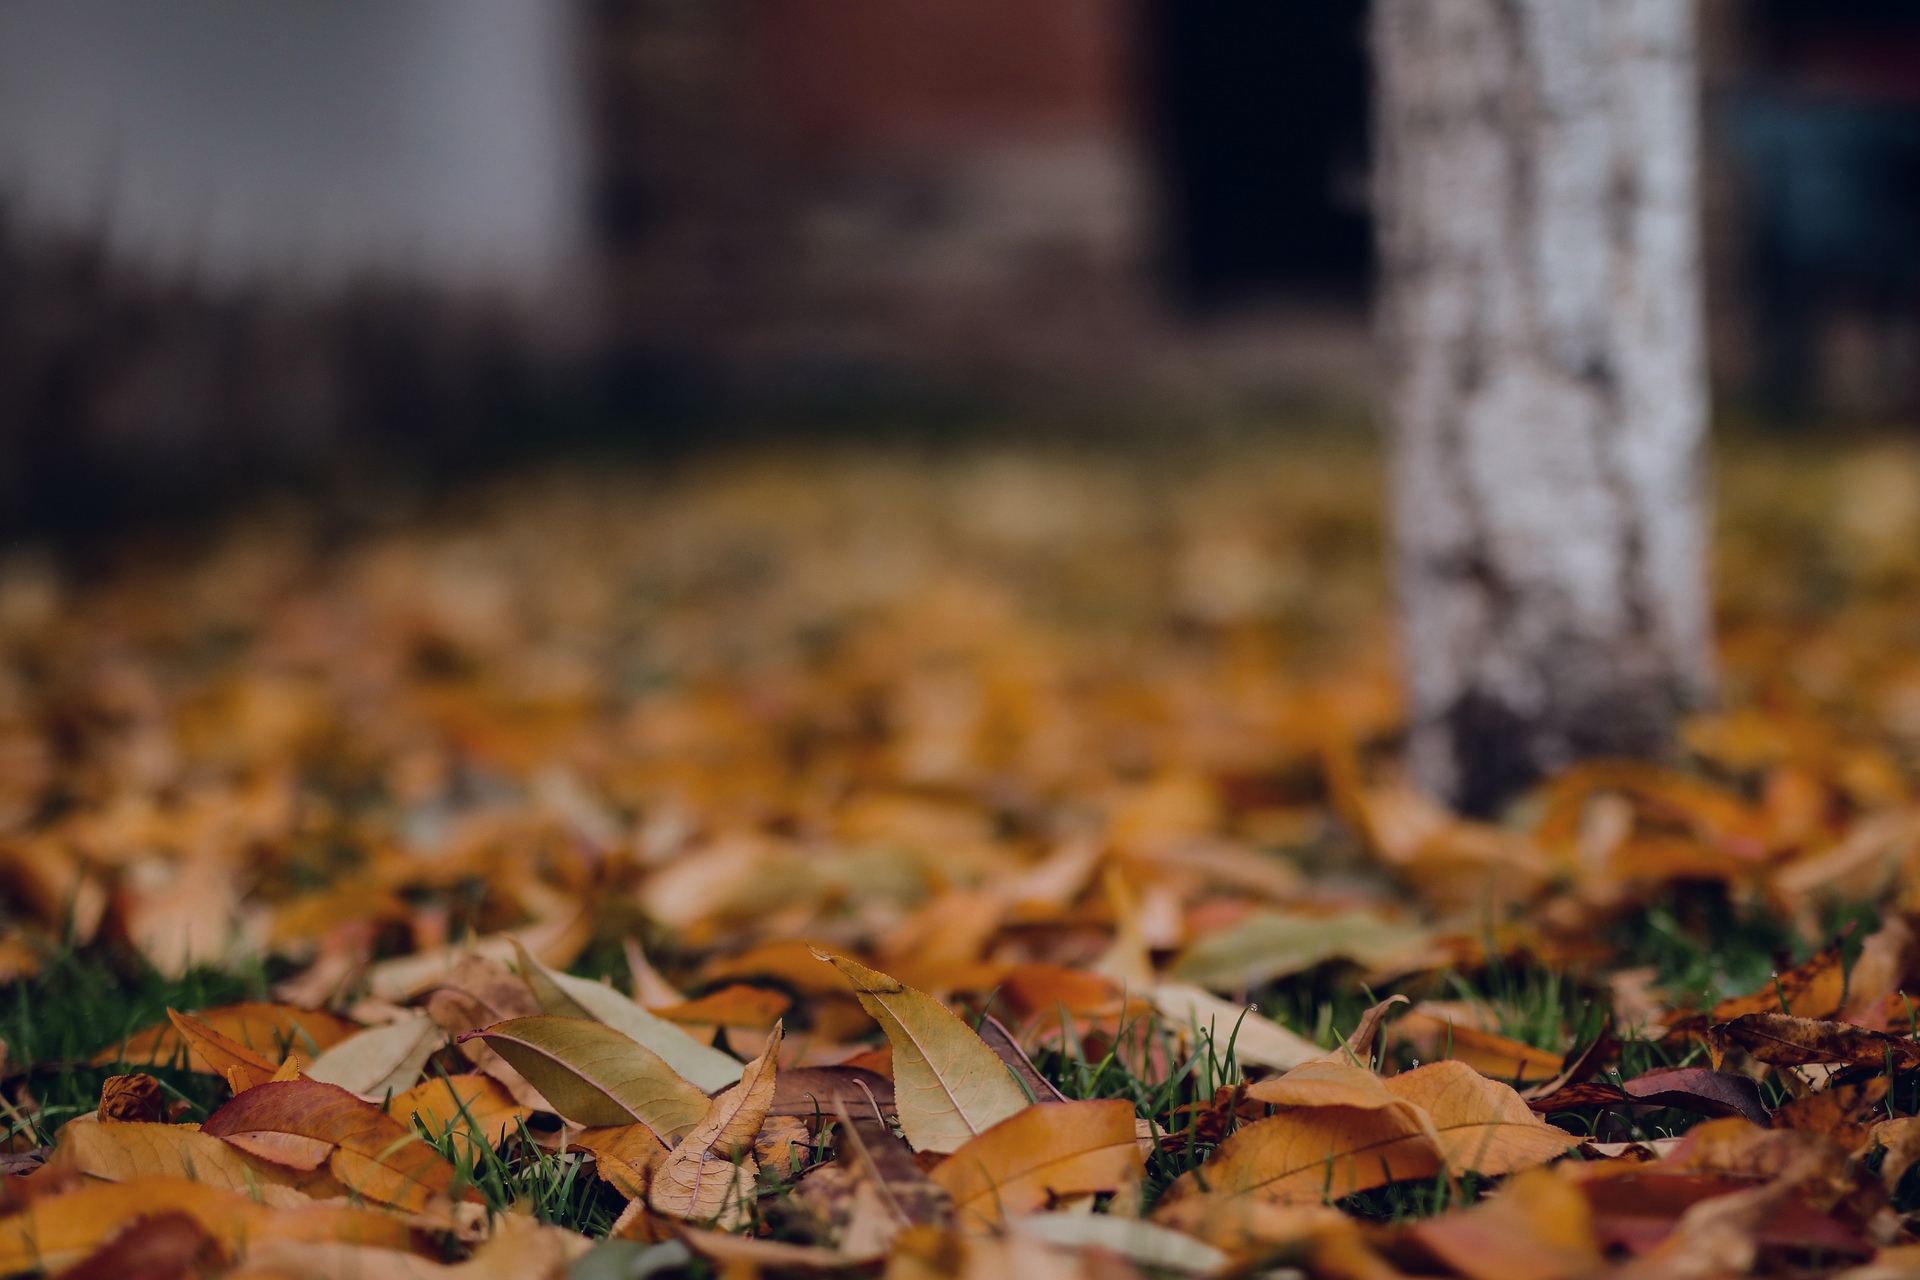
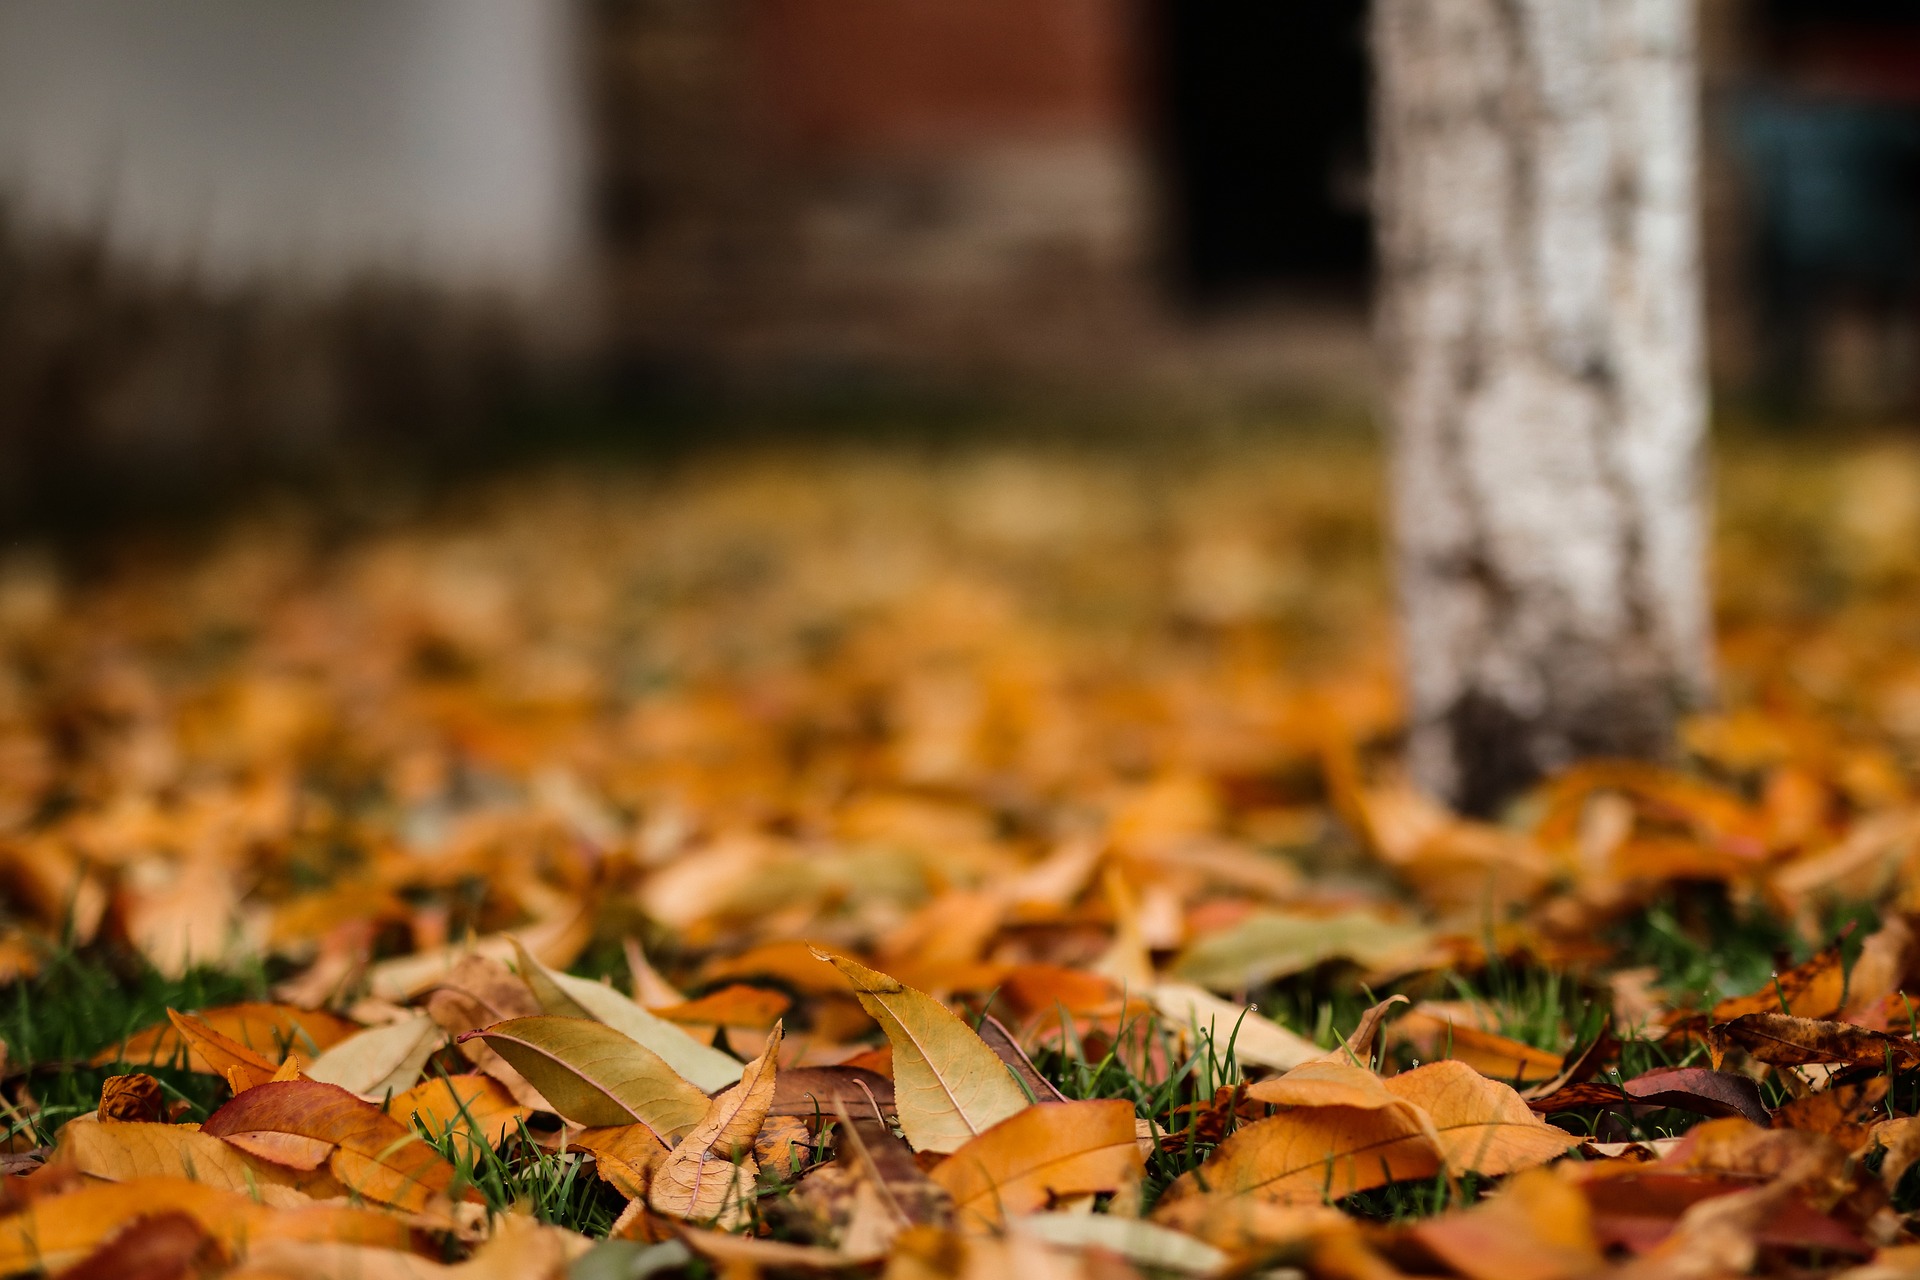
scrolling and draging in gui

diff --git a/src/window/interface/image.rs b/src/window/interface/image.rs
@@ -1,19 +1,49 @@
-use crate::tools::img::fit_size;
 use crate::window::window::Window;
+use eframe::egui::{self, Color32, Frame, Margin, Pos2, Rect, Sense};
 
-use eframe::egui::{self, Color32, Frame, Margin, vec2};
-
-pub fn render(ui: &mut egui::Ui, win: &mut Window) {
+pub fn render(ctx: &egui::Context, ui: &mut egui::Ui, win: &mut Window) {
     Frame::default()
         .stroke(egui::Stroke::new(2.0, Color32::from_rgb(0, 180, 130)))
-        .inner_margin(Margin::symmetric(10, 10))
+        .inner_margin(Margin::ZERO)
         .outer_margin(Margin::symmetric(10, 10))
         .corner_radius(5.0)
         .show(ui, |ui| {
             if let Some(texture) = &win.texture {
-                let max_size = vec2(ui.available_width(), ui.available_height());
-                let scaled = fit_size(texture.size_vec2(), max_size);
-                ui.image((texture.id(), scaled));
+                let (response, painter) =
+                    ui.allocate_painter(ui.available_size(), Sense::click_and_drag());
+
+                if response.dragged() {
+                    win.offset += response.drag_delta();
+                    ctx.request_repaint();
+                    ui.output_mut(|o| o.cursor_icon = egui::CursorIcon::Grab);
+                } else if response.hovered() {
+                    ui.output_mut(|o| o.cursor_icon = egui::CursorIcon::Default);
+                }
+
+                if response.hovered() {
+                    let scroll = ui.input(|i| i.raw_scroll_delta.y);
+                    if scroll != 0.0 {
+                        let zoom_delta = scroll * win.zoom * 0.001;
+                        win.zoom = (win.zoom + zoom_delta).max(0.25);
+                    }
+                    ctx.request_repaint();
+                }
+
+                let image_size = texture.size_vec2() * win.zoom;
+                let image_center = response.rect.center() + win.offset;
+                let image_top_left = image_center - image_size / 2.0;
+                let image_rect = Rect::from_min_size(image_top_left, image_size);
+
+                painter.with_clip_rect(response.rect).image(
+                    texture.id(),
+                    image_rect,
+                    Rect::from_min_max(Pos2::ZERO, Pos2::new(1.0, 1.0)),
+                    Color32::WHITE,
+                );
+            } else {
+                ui.centered_and_justified(|ui| {
+                    ui.label("Brak obrazu");
+                });
             }
         });
 }

diff --git a/src/window/window.rs b/src/window/window.rs
@@ -1,4 +1,4 @@
-use eframe::egui::{FontData, FontDefinitions, FontFamily, TextureHandle, TextureOptions};
+use eframe::egui::{FontData, FontDefinitions, FontFamily, TextureHandle, TextureOptions, Vec2};
 use image::DynamicImage;
 
 use crate::tools::img::dynamic_image_to_color_image;
@@ -11,6 +11,9 @@ pub struct Window {
     pub image: Option<DynamicImage>,
     pub original_image: Option<DynamicImage>,
     pub texture: Option<TextureHandle>,
+
+    pub zoom: f32,
+    pub offset: Vec2,
 
     pub dialogs: Dialogs,
 }
@@ -31,9 +34,9 @@ impl Window {
 
         cc.egui_ctx.set_fonts(fonts);
 
-        if let Some(input_path) = &input_path {
-            let img = open_image(input_path);
-
+        if let Some(input_path) = &input_path
+            && let Some(img) = open_image(input_path)
+        {
             let color_image = dynamic_image_to_color_image(&img);
             let texture =
                 cc.egui_ctx
@@ -45,6 +48,8 @@ impl Window {
                 original_image: Some(img),
                 texture: Some(texture),
                 mode: 0,
+                zoom: 1.0,
+                offset: Vec2::ZERO,
                 dialogs: Dialogs::default(),
             };
         }
@@ -55,6 +60,8 @@ impl Window {
             original_image: None,
             texture: None,
             mode: 0,
+            zoom: 1.0,
+            offset: Vec2::ZERO,
             dialogs: Dialogs::default(),
         }
     }
@@ -76,6 +83,8 @@ impl Default for Window {
             original_image: None,
             texture: None,
             mode: 0,
+            zoom: 1.0,
+            offset: Vec2::ZERO,
             dialogs: Dialogs::default(),
         }
     }

diff --git a/src/tools/open.rs b/src/tools/open.rs
@@ -1,16 +1,48 @@
+use eframe::egui::{Context, TextureOptions, Vec2};
 use image;
 
+use crate::tools::img::dynamic_image_to_color_image;
 use crate::utility::log::Log;
+use crate::window::window::Window;
 
-pub fn open_image(path: &str) -> image::DynamicImage {
+pub fn open_image(path: &str) -> Option<image::DynamicImage> {
     match image::open(path) {
         Ok(img) => {
             Log::info(&format!("Successfully opened image."));
-            img
+            Some(img)
         }
         Err(e) => {
             Log::error(&format!("Failed to open image. {}", e));
-            unreachable!();
+            None
         }
     }
+}
+
+pub fn open_image_gui(ctx: &Context, win: &mut Window) {
+    if let Some(path) = rfd::FileDialog::new()
+        .add_filter("Image", &["png", "jpg", "jpeg", "bmp", "gif", "tiff"])
+        .set_title("Open Image")
+        .pick_file()
+    {
+        load_image(ctx, win, path.to_str().unwrap());
+    }
+}
+
+pub fn load_image(ctx: &Context, win: &mut Window, path: &str) {
+    if let Some(img) = open_image(path) {
+        let color_image = dynamic_image_to_color_image(&img);
+        let texture = ctx.load_texture("dyn-img", color_image, TextureOptions::default());
+
+        win.input_path = Some(path.to_string());
+        win.image = Some(img.clone());
+        win.original_image = Some(img);
+        win.texture = Some(texture);
+    } else {
+        win.input_path = None;
+        win.image = None;
+        win.original_image = None;
+        win.texture = None;
+    }
+    win.zoom = 1.0;
+    win.offset = Vec2::ZERO;
 }

diff --git a/src/window/interface/main.rs b/src/window/interface/main.rs
@@ -1,4 +1,4 @@
-use crate::tools::{img::dynamic_image_to_color_image, open::open_image};
+use crate::tools::open::open_image_gui;
 use crate::window::window::Window;
 use eframe::egui::{self, Align, Color32, FontFamily, FontId, Frame, RichText};
 
@@ -41,20 +41,8 @@ pub fn render(ctx: &egui::Context, win: &mut Window) {
                             )
                             .clicked()
                         {
-                            if let Some(path) = rfd::FileDialog::new()
-                                .add_filter("Image", &["png", "jpg", "jpeg", "bmp", "gif", "tiff"])
-                                .set_title("Open Image")
-                                .pick_file()
-                            {
-                                win.input_path = Some(path.display().to_string());
-                                let img = open_image(win.input_path.as_ref().unwrap());
-                                let color_image = dynamic_image_to_color_image(&img);
-                                win.texture = Some(ctx.load_texture(
-                                    "dyn-img",
-                                    color_image,
-                                    egui::TextureOptions::default(),
-                                ));
-                            }
+                            open_image_gui(ctx, win);
+                            ctx.request_repaint();
                         }
                     });
             });

diff --git a/src/window/interface/toolbar.rs b/src/window/interface/toolbar.rs
@@ -1,9 +1,8 @@
-use crate::tools::img::dynamic_image_to_color_image;
-use crate::tools::open::open_image;
+use crate::tools::open::open_image_gui;
 use crate::utility::ui::icon_button_sized;
 use crate::window::window::Window;
 
-use eframe::egui::{self, TextureOptions};
+use eframe::egui;
 
 pub fn render(ui: &mut egui::Ui, ctx: &egui::Context, win: &mut Window) {
     ui.add_space(10.0);
@@ -32,18 +31,7 @@ pub fn render(ui: &mut egui::Ui, ctx: &egui::Context, win: &mut Window) {
     )
     .clicked()
     {
-        if let Some(path) = rfd::FileDialog::new()
-            .add_filter("Image", &["png", "jpg", "jpeg", "bmp", "gif", "tiff"])
-            .set_title("Open Image")
-            .pick_file()
-        {
-            win.input_path = Some(path.display().to_string());
-            let img = open_image(&win.input_path.as_ref().unwrap());
-            let color_image = dynamic_image_to_color_image(&img);
-            win.image = Some(img);
-            win.original_image = win.image.clone();
-            win.texture = Some(ctx.load_texture("dyn-img", color_image, TextureOptions::default()));
-        }
+        open_image_gui(ctx, win);
     }
 
     ui.add_space(10.0);

diff --git a/src/window/interface/editor.rs b/src/window/interface/editor.rs
@@ -20,7 +20,7 @@ pub fn render(ctx: &egui::Context, win: &mut Window) {
                         ui.set_width(60.0);
 
                         egui::ScrollArea::vertical()
-                            .auto_shrink([false; 2]) // żeby menu nie znikało przy małej zawartości
+                            .auto_shrink([false; 2])
                             .show(ui, |ui| {
                                 ui.set_style(egui::Style {
                                     visuals: egui::Visuals::light(),
@@ -33,7 +33,7 @@ pub fn render(ctx: &egui::Context, win: &mut Window) {
 
                 ui.separator();
                 ui.with_layout(Layout::top_down(egui::Align::Center), |ui| {
-                    image::render(ui, win)
+                    image::render(ctx, ui, win)
                 });
             });
         });

diff --git a/src/cli/start.rs b/src/cli/start.rs
@@ -8,12 +8,13 @@ pub fn process_image(input_path: &str, flags: &[&str]) {
     Log::info(&format!("Processing image: {}", input_path));
     Log::info(&format!("With flags: {:?}", flags));
 
-    let mut img = open_image(input_path);
-    let mut save_service = SaveService::new(input_path);
+    if let Some(mut img) = open_image(input_path) {
+        let mut save_service = SaveService::new(input_path);
 
-    run_flags(flags, &mut img, &mut save_service);
+        run_flags(flags, &mut img, &mut save_service);
 
-    save_service.save(&img);
+        save_service.save(&img);
+    }
 }
 
 fn run_flags(mut flags: &[&str], img: &mut image::DynamicImage, save_service: &mut SaveService) {

diff --git a/src/window/modes/main.rs b/src/window/modes/main.rs
@@ -40,15 +40,19 @@ pub fn render(ui: &mut egui::Ui, ctx: &egui::Context, win: &mut Window) {
 
     if tech.clicked() {
         win.mode = 1;
+        ctx.request_repaint();
     }
     if color.clicked() {
         win.mode = 2;
+        ctx.request_repaint();
     }
     if shape.clicked() {
         win.mode = 3;
+        ctx.request_repaint();
     }
     if filter.clicked() {
         win.mode = 4;
+        ctx.request_repaint();
     }
 
     ui.add_space(20.0);

diff --git a/src/tools/img.rs b/src/tools/img.rs
@@ -24,7 +24,7 @@ pub fn dynamic_image_to_color_image(img: &DynamicImage) -> ColorImage {
 //     texture
 // }
 
-pub fn fit_size(original: egui::Vec2, max: egui::Vec2) -> egui::Vec2 {
-    let scale = (max.x / original.x).min(max.y / original.y).min(1.0);
-    original * scale
-}
+// pub fn fit_size(original: egui::Vec2, max: egui::Vec2) -> egui::Vec2 {
+//     let scale = (max.x / original.x).min(max.y / original.y).min(1.0);
+//     original * scale
+// }

diff --git a/src/utility/log.rs b/src/utility/log.rs
@@ -19,8 +19,12 @@ impl Log {
     }
 
     pub fn error(message: &str) {
-        panic!("{} - {}", "Error".red().bold(), message);
+        println!("{} - {}", "Error".red().bold(), message);
     }
+
+    // pub fn critical_error(message: &str) {
+    //     panic!("{} - {}", "Critical Error".magenta().bold(), message);
+    // }
 
     pub fn command(command: &str, message: &str) {
         let prefix = "pixel".bold();

diff --git a/src/main.rs b/src/main.rs
@@ -1,4 +1,4 @@
-#![windows_subsystem = "windows"]
+#![cfg_attr(not(debug_assertions), windows_subsystem = "windows")]
 
 mod cli;
 mod image;
@@ -18,8 +18,6 @@ fn main() {
     let args: Vec<String> = env::args().collect();
 
     if args.len() == 1 {
-        // Log::error("No arguments provided. Use --help for assistance.");
-
         run(None).unwrap();
         return;
     }

diff --git a/src/window/interface/side_menu.rs b/src/window/interface/side_menu.rs
@@ -16,6 +16,7 @@ pub fn render(ui: &mut egui::Ui, ctx: &egui::Context, win: &mut Window) {
             .clicked()
             {
                 win.mode = 0;
+                ctx.request_repaint();
             }
             ui.add_space(10.0);
             ui.separator();
